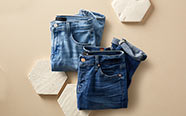
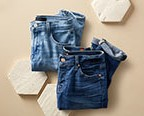
saves

diff --git a/src/entities/group/api/GroupApi.ts b/src/entities/group/api/GroupApi.ts
@@ -19,6 +19,69 @@ export default class GroupApi {
                         description: "Shop Fashion for less",
                         slug: "jeans",
                         imageUrl: "/img/group2.jpg"
+                    },
+                    {
+                        id: "3",
+                        name: "Watches",
+                        description: "Wireless Tech",
+                        slug: "watches",
+                        imageUrl: "/img/group3.jpg"
+                    },
+                    {
+                        id: "4",
+                        name: "Smartphones",
+                        description: "Wireless Tech",
+                        slug: "smartphones",
+                        imageUrl: "/img/group4.jpg"
+                    },
+                    {
+                        id: "5",
+                        name: "Tablets",
+                        description: "Wireless Tech",
+                        slug: "tablets",
+                        imageUrl: "/img/group5.jpg"
+                    },
+                    {
+                        id: "6",
+                        name: "Headphones",
+                        description: "Wireless Tech",
+                        slug: "headphones",
+                        imageUrl: "/img/group6.jpg"
+                    },
+                    {
+                        id: "7",
+                        name: "PC",
+                        description: "Deals on top categories",
+                        slug: "pc",
+                        imageUrl: "/img/group7.jpg"
+                    },
+                    {
+                        id: "8",
+                        name: "Men",
+                        description: "Most-loved watches",
+                        slug: "men-watches",
+                        imageUrl: "/img/group8.jpg"
+                    },
+                    {
+                        id: "9",
+                        name: "Laptops",
+                        description: "Level up your PC here",
+                        slug: "laptops",
+                        imageUrl: "/img/group9.jpg"
+                    },
+                    {
+                        id: "10",
+                        name: "Equipment",
+                        description: "Gear up to get fit",
+                        slug: "equipment",
+                        imageUrl: "/img/group10.jpg"
+                    },
+                    {
+                        id: "11",
+                        name: "Kitchen & dining",
+                        description: "New home arrivals under $50",
+                        slug: "kitchen_dining",
+                        imageUrl: "/img/group11.jpg"
                     }
                 ]),
                 500

diff --git a/src/pages/home/Home.tsx b/src/pages/home/Home.tsx
@@ -1,10 +1,30 @@
+import { useEffect, useState } from "react";
 import Counter from "../../widgets/counter/Counter";
+import type IGroup from "../../entities/group/model/IGroup";
+import GroupApi from "../../entities/group/api/GroupApi";
 
 export default function Home() {
+    const [groups, setGroups] = useState<Array<IGroup>>([]);
+
+    useEffect(() => {
+        GroupApi.allGroups().then(setGroups);
+    }, []);
 
     return <div className="container">
-        <h1>Hello, World!</h1>
-        <Counter/>
-        <Counter/>
+        <h1>Крамниця</h1>
+
+        <div className="row row-cols-1 row-cols-md-3 g-4">
+            {groups.map(g => <div className="col">
+                <div className="card h-100">
+                    <img src={g.imageUrl} className="card-img-top" alt={g.name}/>
+                    <div className="card-body">
+                        <h5 className="card-title">{g.name}</h5>
+                        <p className="card-text">{g.description}</p>
+                    </div>
+                </div>                
+            </div>)}
+        </div>
+        
+        
     </div>;
 }